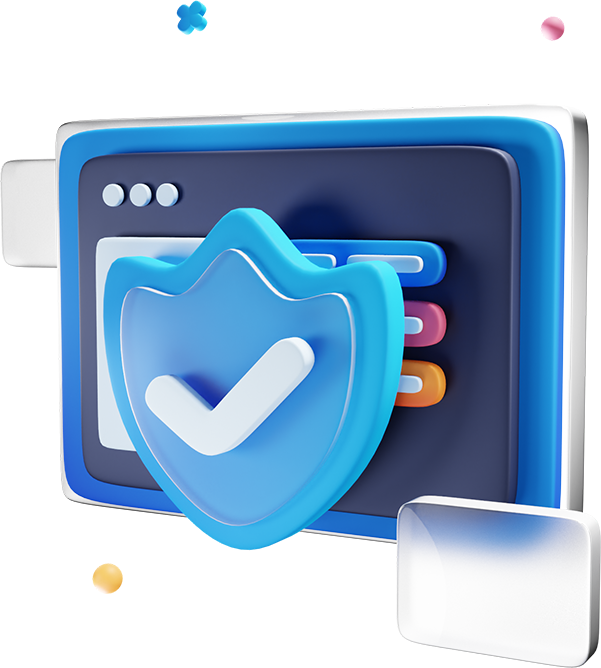
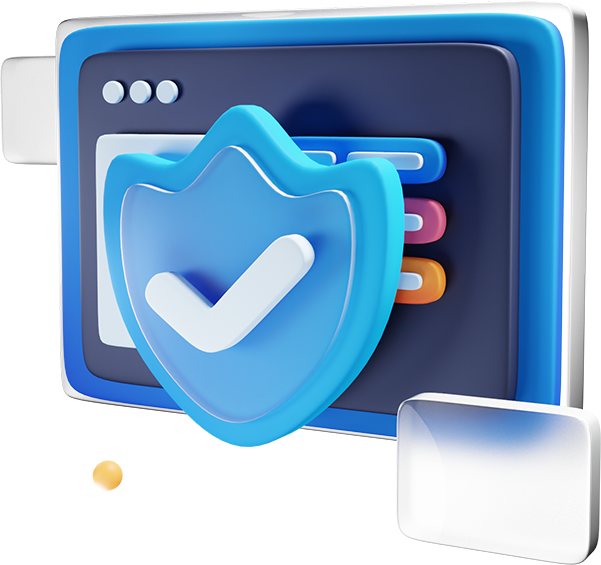
agregando clases a botones y estructura al hero

diff --git a/src/Frontend/components/Hero/Hero.tsx b/src/Frontend/components/Hero/Hero.tsx
@@ -4,11 +4,11 @@ import "./Hero.css";
 function Hero() {
   return (
     <main
-      className="hero grid grid-flow-col items-center gap-2 px-20"
+      className="hero container grid grid-cols-2 justify-center items-center gap-2"
       id="hero"
     >
       <section>
-        <h1 className="text-[75px] font-bold leading-[64px] mb-5">
+        <h1 className="text-7xl font-bold leading-[64px] mb-5">
           Todos tus{" "}
           <span className="text__accent-purple">inicios de sesión</span> en un
           solo lugar
@@ -17,13 +17,13 @@ function Hero() {
           Simplifique su vida digital con un gestor de contraseñas que crea,
           guarda y rellena contraseñas seguras automáticamente.
         </p>
-        <div className="flex gap-2">
-          <button>Business</button>
-          <button>Personal</button>
+        <div className="flex gap-4">
+          <button className="btn__primary btn__lime">Business</button>
+          <button className="btn__primary">Personal</button>
         </div>
       </section>
-      <figure>
-        <img src={HeroBanner} alt="" width={360} />
+      <figure className="flex justify-center">
+        <img src={HeroBanner} alt="" width={400} />
       </figure>
     </main>
   );

diff --git a/src/Frontend/index.css b/src/Frontend/index.css
@@ -3,6 +3,8 @@
   --purple-vivid-color: #a66cff;
   --background-light: #ebe9e9;
   --background-dark: #1f2937;
+  --background-black: #000;
+  --text-white: #fff;
   --text-light: #374151;
   --text-dark: #e5e7eb;
 
@@ -22,4 +24,32 @@ html {
 body {
   background-color: var(--background-light);
   font-family: var(--primary-font-family);
+}
+
+.container {
+  max-width: 1200px;
+  width: 88% !important;
+  margin: 0 auto;
+  /* background-color: red; */
+}
+
+.btn__primary {
+  font-size: 1.2em;
+  font-weight: 600;
+  border: 1px solid var(--background-black);
+  padding: 0.75rem 2rem;
+  border-radius: 8px;
+  transition: background-color 0.3s ease-in-out, color 0.3s ease-in-out,
+    border 0.3s ease-in-out;
+}
+
+.btn__lime {
+  background-color: var(--accent-lime-color);
+  border: 1px solid var(--accent-lime-color);
+}
+
+.btn__primary:hover {
+  border: 1px solid var(--background-black);
+  color: var(--text-white);
+  background-color: var(--background-black);
 }

diff --git a/src/Frontend/components/Footer/Footer.tsx b/src/Frontend/components/Footer/Footer.tsx
@@ -6,17 +6,26 @@ function Footer() {
       <a
         className="text-3xl"
         href="https://github.com/No-Country-simulation/equipo-c24-70-ft-webapp"
-        target="blank"
+        target="_blank"
         rel="noopener noreferrer"
         title="Repositorio de GitHub"
       >
         <FaGithub />
       </a>
-      <p>TrustLock copyright © 2025. All Rights Reserved.</p>
+      <p>
+        TrustLock copyright © 2025. All Rights{" "}
+        <a
+          href="https://html.designingmedia.com/whizcyber/index.html"
+          target="_blank"
+        >
+          Reserved
+        </a>
+        .
+      </p>
       <a
         className="text-3xl"
         href="https://www.formfrom.design/illustration-pack/moneyfly"
-        target="blank"
+        target="_blank"
         rel="noopener noreferrer"
         title="Paleta de colores"
       >

diff --git a/src/Frontend/components/Header/Header.tsx b/src/Frontend/components/Header/Header.tsx
@@ -1,5 +1,5 @@
 import LogoIcon from "../../../assets/logo.png";
-import { MdMenu, MdClose } from "react-icons/md";
+import { MdMenu, MdClose, MdPerson } from "react-icons/md";
 import HeaderNavBar from "./HeaderNavBar";
 import "./Header.css";
 import { useNavMenu } from "../../hooks/useNavMenu";
@@ -17,8 +17,13 @@ function Header() {
           </p>
         </a>
 
-        <div className="hidden md:flex">
-          <HeaderNavBar />
+        <div className="flex items-center gap-2">
+          <div className="hidden md:flex">
+            <HeaderNavBar />
+          </div>
+          <button className="text-3xl hover:opacity-75" title="Iniciar Sesión">
+            <MdPerson />
+          </button>
         </div>
 
         <button className="md:hidden text-3xl z-10" onClick={handleClick}>

diff --git a/src/Frontend/components/Header/HeaderNavBar.css b/src/Frontend/components/Header/HeaderNavBar.css
@@ -15,6 +15,14 @@
   font-size: 1.1em;
 }
 
+.header__navbar ul li {
+  transition: color 0.3s ease-in-out;
+}
+
+.header__navbar ul li:hover {
+  color: var(--purple-vivid-color);
+}
+
 @media screen and (min-width: 768px) {
   .header__navbar {
     width: auto;
